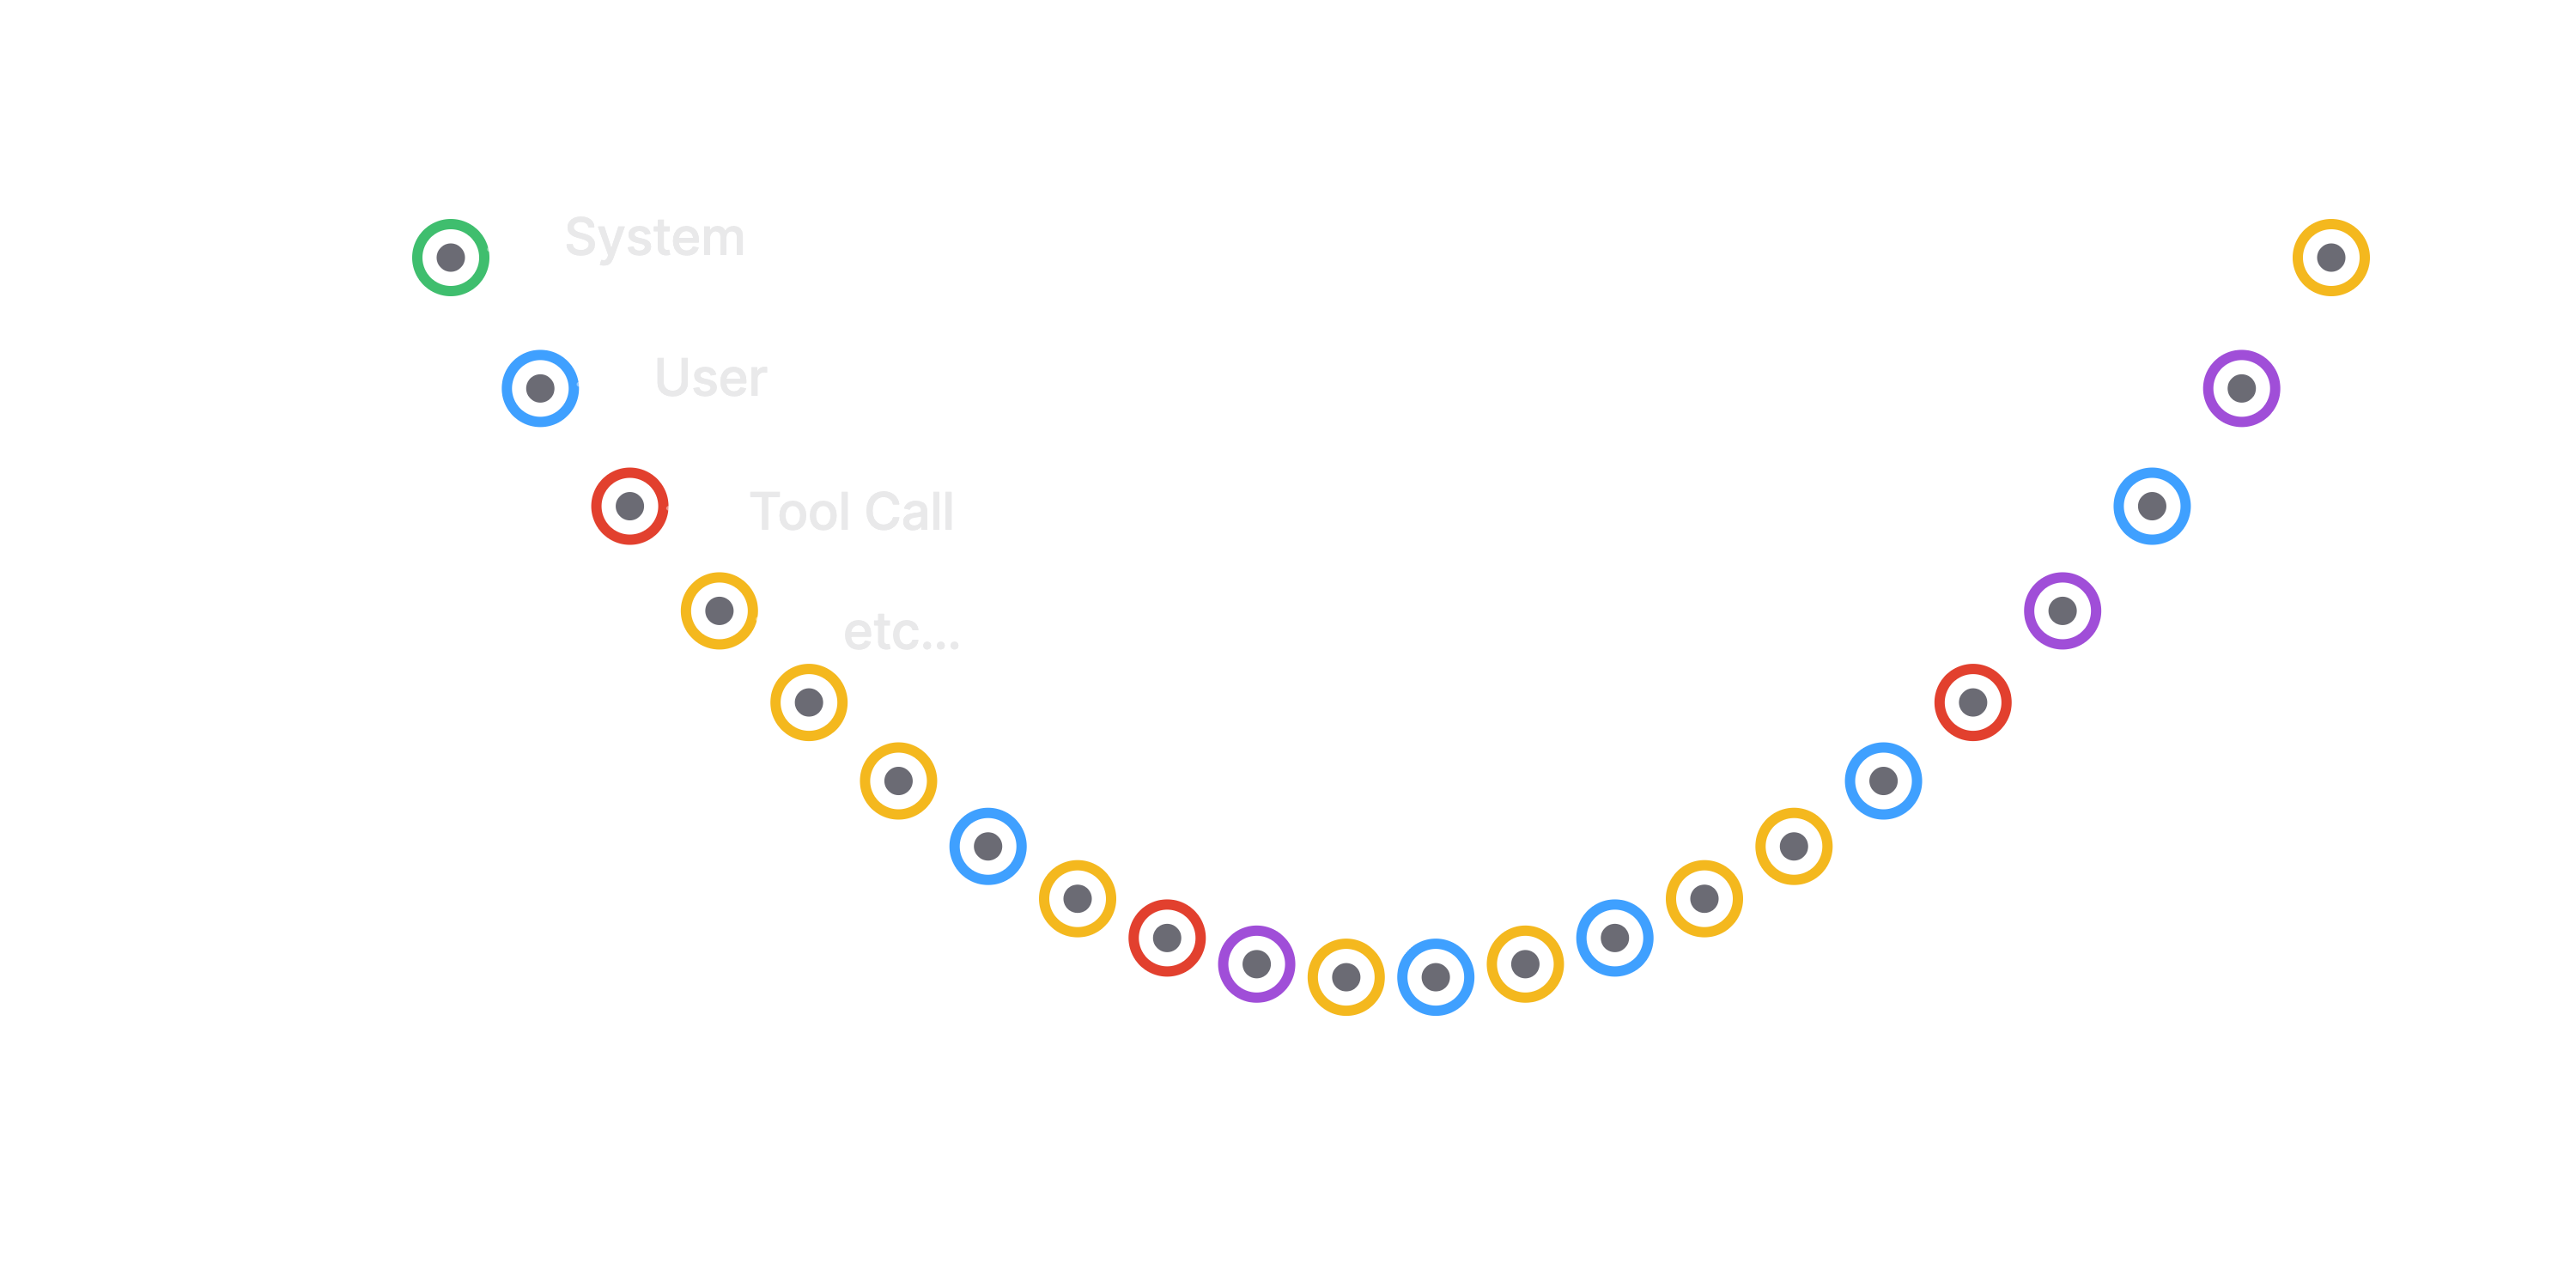
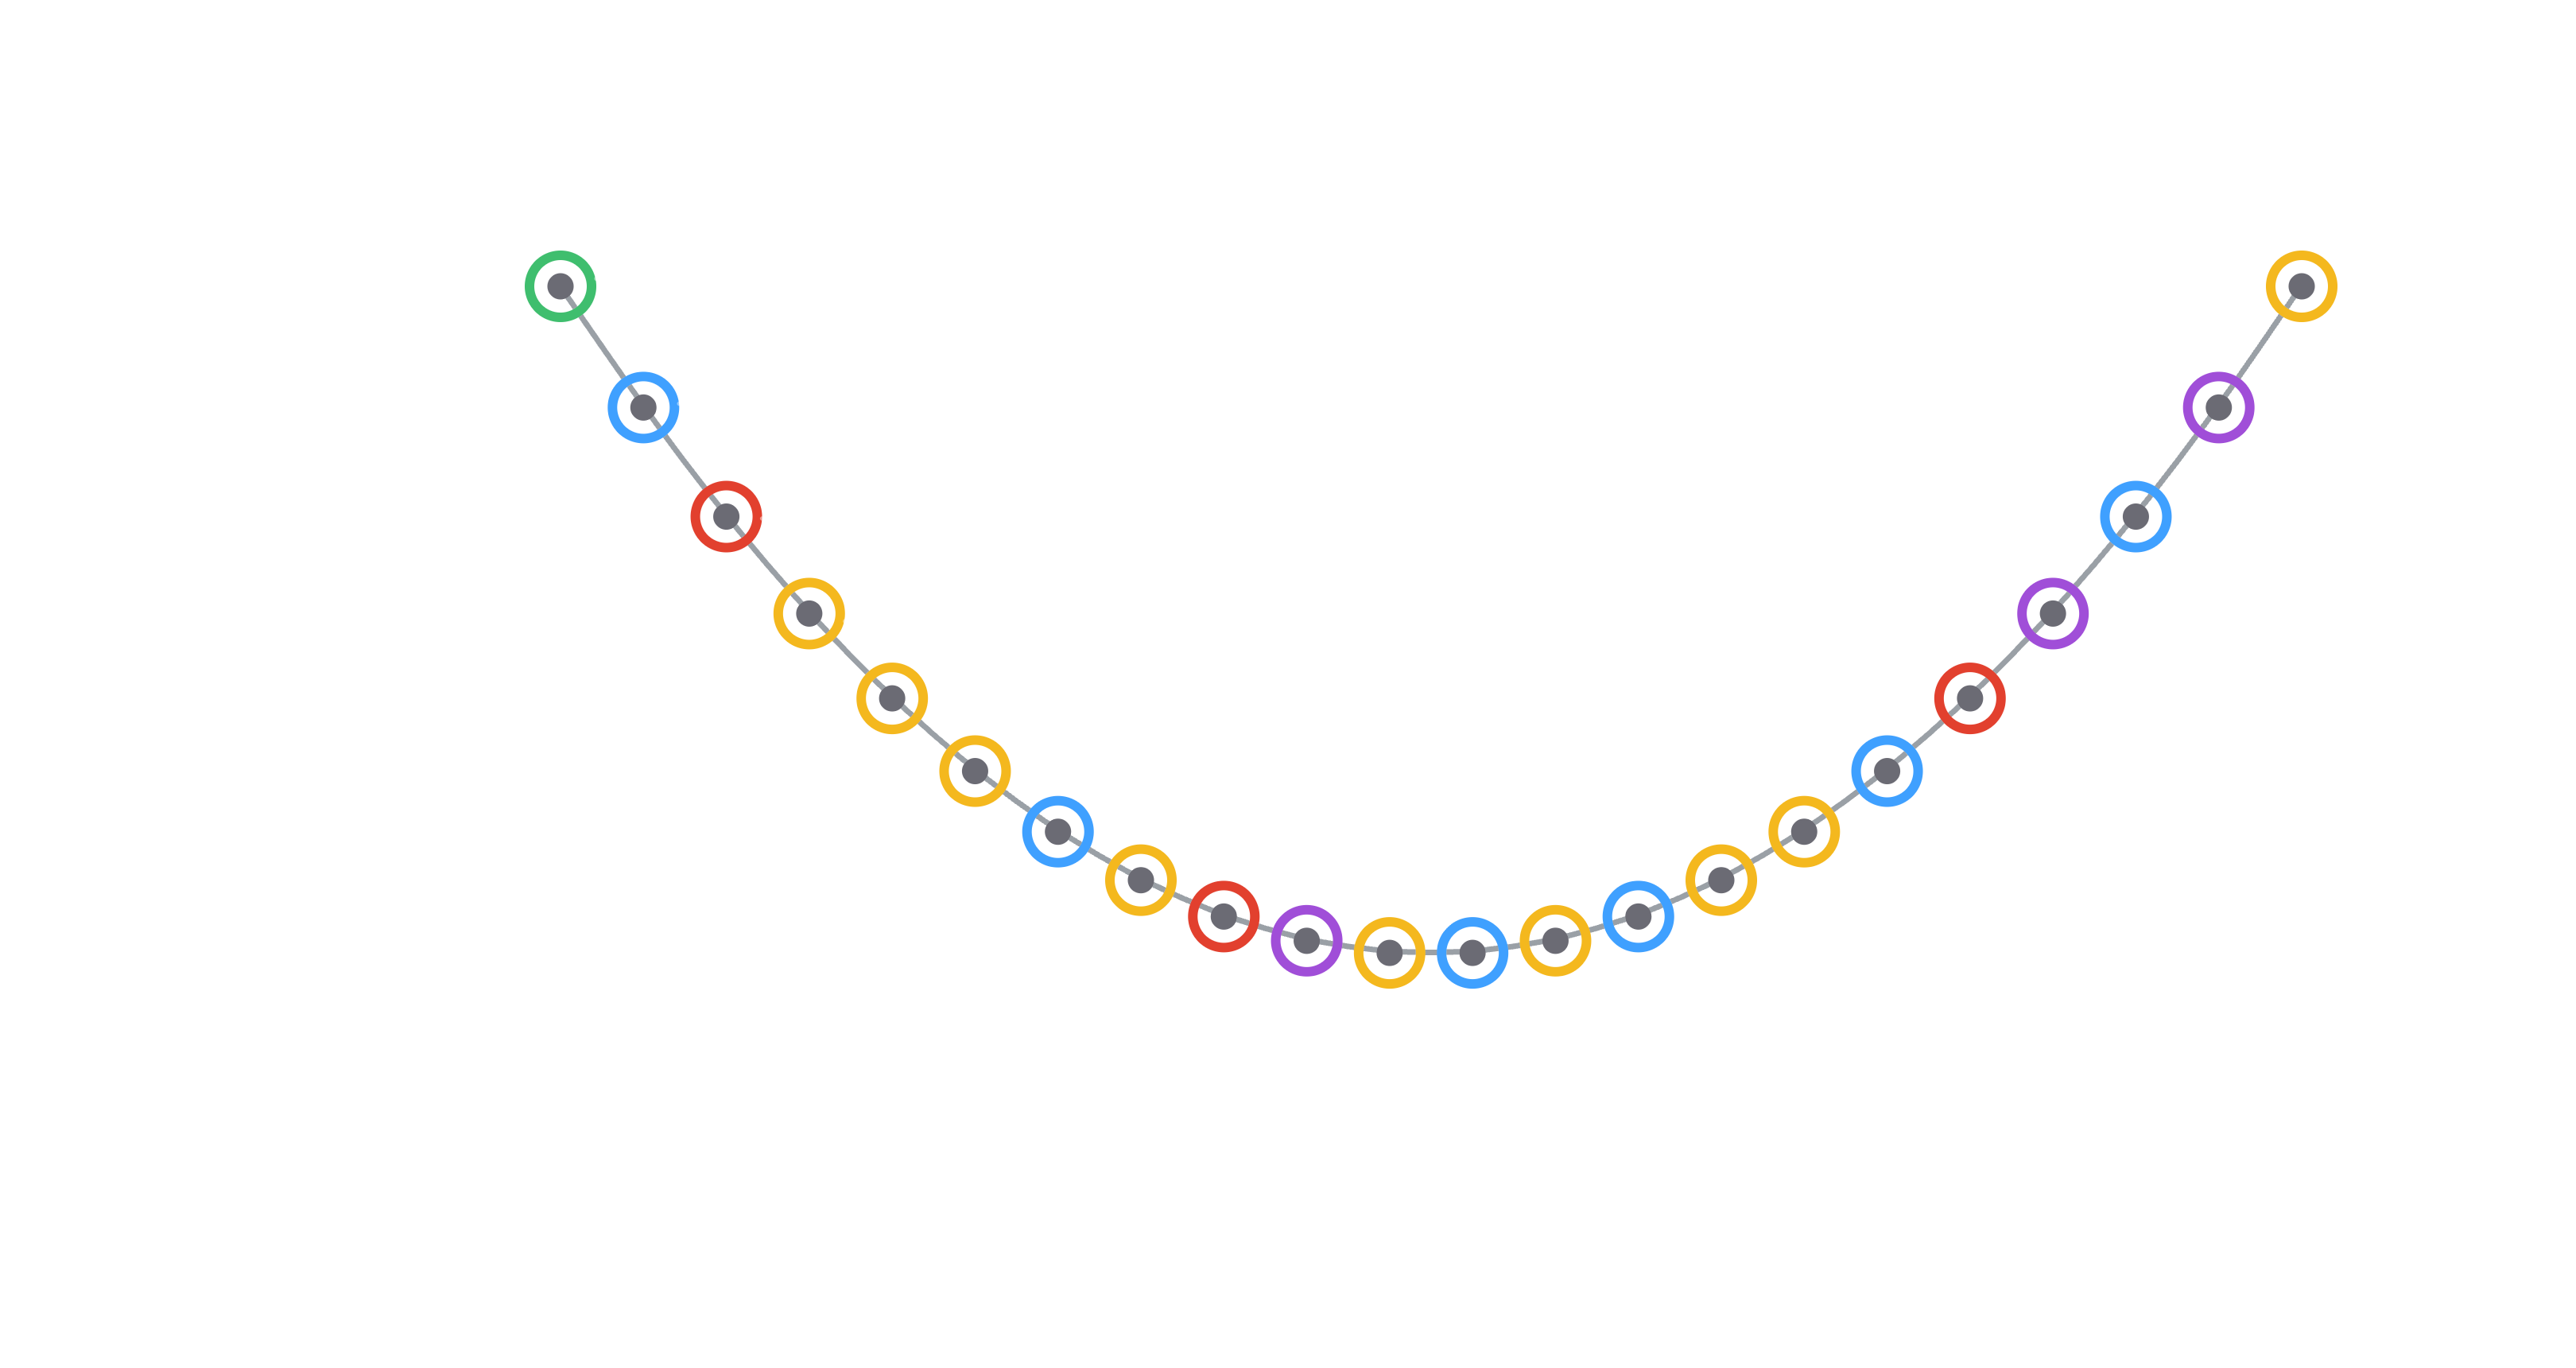
almost there

Changed region(s): [[0.155, 0.1533, 0.868, 0.7973], [0.837, 0.1533, 0.93, 0.3373]]

diff --git a/generate_intro_slides.py b/generate_intro_slides.py
@@ -1,0 +1,261 @@
+"""Generate 2 intro slides: RULER + Lost in the Middle."""
+
+from pptx import Presentation
+from pptx.util import Inches, Pt
+from pptx.dml.color import RGBColor
+from pptx.enum.shapes import MSO_SHAPE
+from pptx.enum.text import PP_ALIGN, MSO_ANCHOR
+
+# --- Theme colors ---
+BG_DARK = RGBColor(0x0B, 0x14, 0x26)
+TEXT_WHITE = RGBColor(0xFF, 0xFF, 0xFF)
+TEXT_MUTED = RGBColor(0xB8, 0xC5, 0xD6)
+ACCENT_CYAN = RGBColor(0x00, 0xD4, 0xFF)
+ACCENT_RED = RGBColor(0xFF, 0x4D, 0x6D)
+ACCENT_GREEN = RGBColor(0x2E, 0xD5, 0x73)
+ACCENT_AMBER = RGBColor(0xFF, 0xC4, 0x4D)
+CODE_BG = RGBColor(0x13, 0x1E, 0x35)
+CALLOUT_BG = RGBColor(0x0F, 0x2A, 0x3F)
+
+prs = Presentation()
+prs.slide_width = Inches(13.333)
+prs.slide_height = Inches(7.5)
+BLANK_LAYOUT = prs.slide_layouts[6]
+
+
+def set_bg(slide, color=BG_DARK):
+    slide.background.fill.solid()
+    slide.background.fill.fore_color.rgb = color
+
+
+def add_rect(slide, x, y, w, h, fill_color, line_color=None):
+    shape = slide.shapes.add_shape(MSO_SHAPE.RECTANGLE, x, y, w, h)
+    shape.fill.solid()
+    shape.fill.fore_color.rgb = fill_color
+    if line_color is None:
+        shape.line.fill.background()
+    else:
+        shape.line.color.rgb = line_color
+    shape.shadow.inherit = False
+    return shape
+
+
+def add_text(slide, x, y, w, h, text, *, size=18, bold=False, color=TEXT_WHITE,
+             font="Helvetica Neue", align=PP_ALIGN.LEFT, anchor=MSO_ANCHOR.TOP):
+    tb = slide.shapes.add_textbox(x, y, w, h)
+    tf = tb.text_frame
+    tf.word_wrap = True
+    tf.margin_left = 0
+    tf.margin_right = 0
+    tf.margin_top = 0
+    tf.margin_bottom = 0
+    tf.vertical_anchor = anchor
+    p = tf.paragraphs[0]
+    p.alignment = align
+    run = p.add_run()
+    run.text = text
+    run.font.name = font
+    run.font.size = Pt(size)
+    run.font.bold = bold
+    run.font.color.rgb = color
+    return tb
+
+
+def add_rich(slide, x, y, w, h, segments, *, size=18, font="Helvetica Neue",
+             align=PP_ALIGN.LEFT, anchor=MSO_ANCHOR.TOP, line_spacing=1.3):
+    tb = slide.shapes.add_textbox(x, y, w, h)
+    tf = tb.text_frame
+    tf.word_wrap = True
+    tf.margin_left = 0
+    tf.margin_right = 0
+    tf.margin_top = 0
+    tf.margin_bottom = 0
+    tf.vertical_anchor = anchor
+
+    paragraphs = [[]]
+    for seg in segments:
+        if seg == "NL":
+            paragraphs.append([])
+        else:
+            paragraphs[-1].append(seg)
+
+    for idx, segs in enumerate(paragraphs):
+        p = tf.paragraphs[0] if idx == 0 else tf.add_paragraph()
+        p.alignment = align
+        p.line_spacing = line_spacing
+        for seg in segs:
+            r = p.add_run()
+            r.text = seg.get("text", "")
+            r.font.name = seg.get("font", font)
+            r.font.size = Pt(seg.get("size", size))
+            r.font.bold = seg.get("bold", False)
+            r.font.italic = seg.get("italic", False)
+            r.font.color.rgb = seg.get("color", TEXT_WHITE)
+    return tb
+
+
+def add_title(slide, title_text):
+    add_text(slide, Inches(0.6), Inches(0.5), Inches(12), Inches(0.9),
+             title_text, size=44, bold=True, color=TEXT_WHITE)
+    add_rect(slide, Inches(0.65), Inches(1.45), Inches(0.6), Inches(0.05), ACCENT_CYAN)
+
+
+def add_subtitle(slide, sub_text, y=Inches(1.7)):
+    add_text(slide, Inches(0.65), y, Inches(12), Inches(0.4),
+             sub_text, size=16, color=TEXT_MUTED)
+
+
+def add_footer(slide, footer_text):
+    add_text(slide, Inches(0.65), Inches(7.0), Inches(12), Inches(0.3),
+             footer_text, size=11, color=TEXT_MUTED, font="Menlo")
+
+
+def add_corner_tag(slide, tag_text):
+    w = Inches(2.0); h = Inches(0.45)
+    x = Inches(11.0); y = Inches(0.6)
+    shape = slide.shapes.add_shape(MSO_SHAPE.ROUNDED_RECTANGLE, x, y, w, h)
+    shape.fill.background()
+    shape.line.color.rgb = ACCENT_CYAN
+    shape.line.width = Pt(1.2)
+    shape.shadow.inherit = False
+    tf = shape.text_frame
+    tf.margin_left = Inches(0.1)
+    tf.margin_right = Inches(0.1)
+    p = tf.paragraphs[0]
+    p.alignment = PP_ALIGN.CENTER
+    run = p.add_run()
+    run.text = tag_text
+    run.font.name = "Helvetica Neue"
+    run.font.size = Pt(12)
+    run.font.bold = True
+    run.font.color.rgb = ACCENT_CYAN
+
+
+def add_callout(slide, x, y, w, h, text, *, accent=ACCENT_CYAN, size=20, bold=False):
+    add_rect(slide, x, y, w, h, CALLOUT_BG)
+    add_rect(slide, x, y, Inches(0.08), h, accent)
+    tb = slide.shapes.add_textbox(x + Inches(0.35), y, w - Inches(0.5), h)
+    tf = tb.text_frame
+    tf.word_wrap = True
+    tf.vertical_anchor = MSO_ANCHOR.MIDDLE
+    p = tf.paragraphs[0]
+    run = p.add_run()
+    run.text = text
+    run.font.name = "Helvetica Neue"
+    run.font.size = Pt(size)
+    run.font.bold = bold
+    run.font.color.rgb = TEXT_WHITE
+
+
+# ============================================================
+# SLIDE 1 — RULER: Frontier modeli @ 256K
+# ============================================================
+s = prs.slides.add_slide(BLANK_LAYOUT)
+set_bg(s)
+add_title(s, "Veliki context window ≠ veliko razumijevanje")
+add_subtitle(s, "RULER benchmark · frontier modeli @ 256K tokena")
+add_corner_tag(s, "Research")
+
+# Intro line
+add_rich(s, Inches(0.65), Inches(2.3), Inches(12), Inches(0.6),
+         [
+             {"text": "Svi frontier modeli ", "size": 18, "color": TEXT_MUTED},
+             {"text": "deklariraju 1M token", "size": 18, "bold": True, "color": TEXT_WHITE},
+             {"text": " context window.", "size": 18, "color": TEXT_MUTED},
+             "NL",
+             {"text": "Na složenijim zadacima već pri ", "size": 18, "color": TEXT_MUTED},
+             {"text": "256K", "size": 18, "bold": True, "color": ACCENT_CYAN},
+             {"text": " (¼ deklariranog) — performans pada:", "size": 18, "color": TEXT_MUTED},
+         ])
+
+# Table
+table_x = Inches(0.65)
+table_y = Inches(3.6)
+table_w = Inches(12.0)
+row_h = Inches(0.7)
+
+# Header row
+header_y = table_y
+add_rect(s, table_x, header_y, table_w, row_h, CODE_BG)
+add_text(s, table_x + Inches(0.5), header_y, Inches(5.0), row_h,
+         "Model", size=14, bold=True, color=TEXT_MUTED, anchor=MSO_ANCHOR.MIDDLE)
+add_text(s, table_x + Inches(6.5), header_y, Inches(2.5), row_h,
+         "RULER @ 256K", size=14, bold=True, color=TEXT_MUTED,
+         anchor=MSO_ANCHOR.MIDDLE, align=PP_ALIGN.CENTER)
+add_text(s, table_x + Inches(9.5), header_y, Inches(2.0), row_h,
+         "Status", size=14, bold=True, color=TEXT_MUTED,
+         anchor=MSO_ANCHOR.MIDDLE, align=PP_ALIGN.CENTER)
+
+# Data rows
+rows = [
+    ("Gemini 3 Deep Think", "84%", "drži >80%", ACCENT_GREEN),
+    ("GPT-5.5", "72%", "ispod praga", ACCENT_AMBER),
+    ("Claude Opus 4.7", "61%", "značajan pad", ACCENT_RED),
+]
+for i, (model, score, status, color) in enumerate(rows):
+    y = table_y + row_h * (i + 1)
+    add_rect(s, table_x, y, table_w, row_h, BG_DARK)
+    # subtle divider
+    add_rect(s, table_x, y, table_w, Inches(0.015), CODE_BG)
+    add_text(s, table_x + Inches(0.5), y, Inches(5.0), row_h,
+             model, size=18, color=TEXT_WHITE, anchor=MSO_ANCHOR.MIDDLE)
+    add_text(s, table_x + Inches(6.5), y, Inches(2.5), row_h,
+             score, size=22, bold=True, color=color,
+             anchor=MSO_ANCHOR.MIDDLE, align=PP_ALIGN.CENTER, font="Menlo")
+    add_text(s, table_x + Inches(9.5), y, Inches(2.0), row_h,
+             status, size=14, color=color,
+             anchor=MSO_ANCHOR.MIDDLE, align=PP_ALIGN.CENTER)
+
+# Bottom callout
+add_callout(s, Inches(0.65), Inches(6.7), Inches(12), Inches(0.55),
+            "Deklarirano: 1M.  Realno korisno: znatno manje.",
+            size=16, bold=True)
+
+add_footer(s, "RULER · github.com/NVIDIA/RULER")
+
+
+# ============================================================
+# SLIDE 2 — Lost in the Middle: Definicija + natuknice
+# ============================================================
+s = prs.slides.add_slide(BLANK_LAYOUT)
+set_bg(s)
+add_title(s, "Lost in the Middle")
+add_subtitle(s, "Stanford / UC Berkeley · 2023")
+add_corner_tag(s, "Research")
+
+# Definition box
+add_callout(s, Inches(0.65), Inches(2.4), Inches(12), Inches(1.4),
+            "LLM ne čita kontekst ravnomjerno. Najbolje koristi informacije "
+            "na početku i kraju, a najlošije u sredini.",
+            size=20, accent=ACCENT_CYAN)
+
+# Bullets
+bullets_y = Inches(4.3)
+bullet_lh = Inches(0.65)
+
+bullets = [
+    ("Pozicija u kontekstu = ", "težina u pažnji", ""),
+    ("Najbolja točnost na ", "rubovima", ", najlošija u sredini — U-krivulja"),
+    ("Što je kontekst duži, to je ", "'mrtva zona'", " u sredini veća"),
+    ("Vrijedi za sve frontier modele — ", "Claude, GPT, Gemini", ""),
+]
+
+for i, (pre, mid, post) in enumerate(bullets):
+    y = bullets_y + bullet_lh * i
+    add_text(s, Inches(0.65), y, Inches(0.3), Inches(0.5),
+             "•", size=20, color=ACCENT_CYAN, bold=True)
+    add_rich(s, Inches(1.0), y, Inches(11.5), Inches(0.6),
+             [
+                 {"text": pre, "size": 18, "color": TEXT_MUTED},
+                 {"text": mid, "size": 18, "bold": True, "color": TEXT_WHITE},
+                 {"text": post, "size": 18, "color": TEXT_MUTED},
+             ])
+
+add_footer(s, "arxiv.org/abs/2307.03172")
+
+
+# ============================================================
+output = "/Users/darjan.baricevic/Projects/debug-presentation/new-intro-slides.pptx"
+prs.save(output)
+print(f"Saved: {output}")
+print(f"Slides: {len(prs.slides)}")